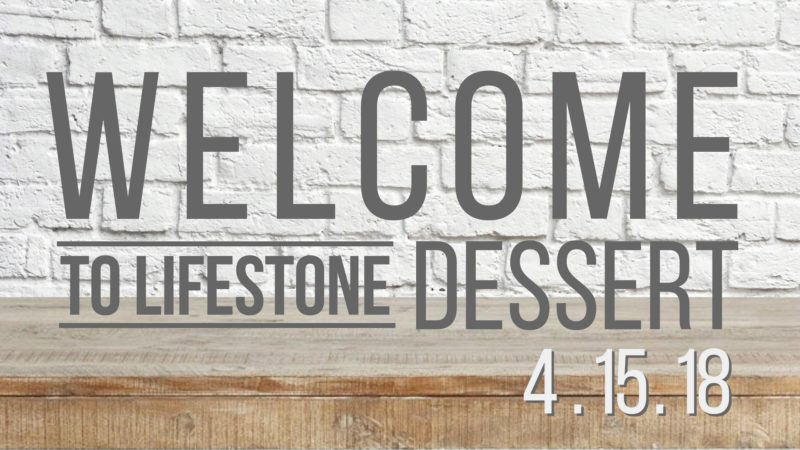
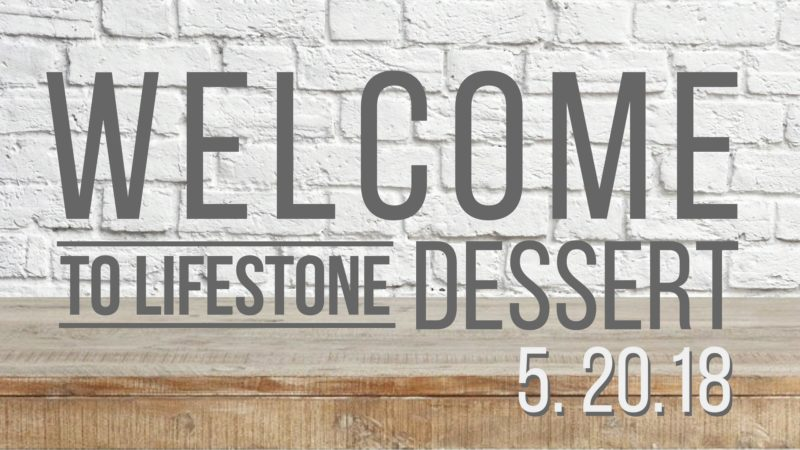
Change dessert date
Closes #286

Changed region(s): [[0.625, 0.7467, 0.9375, 0.9333]]

diff --git a/_events/dessert.html b/_events/dessert.html
@@ -1,6 +1,6 @@
 ---
 title: "Welcome to Lifestone Dessert"
-startDate: 2018-04-15
+startDate: 2018-05-20
 description: ""
 ---
 
